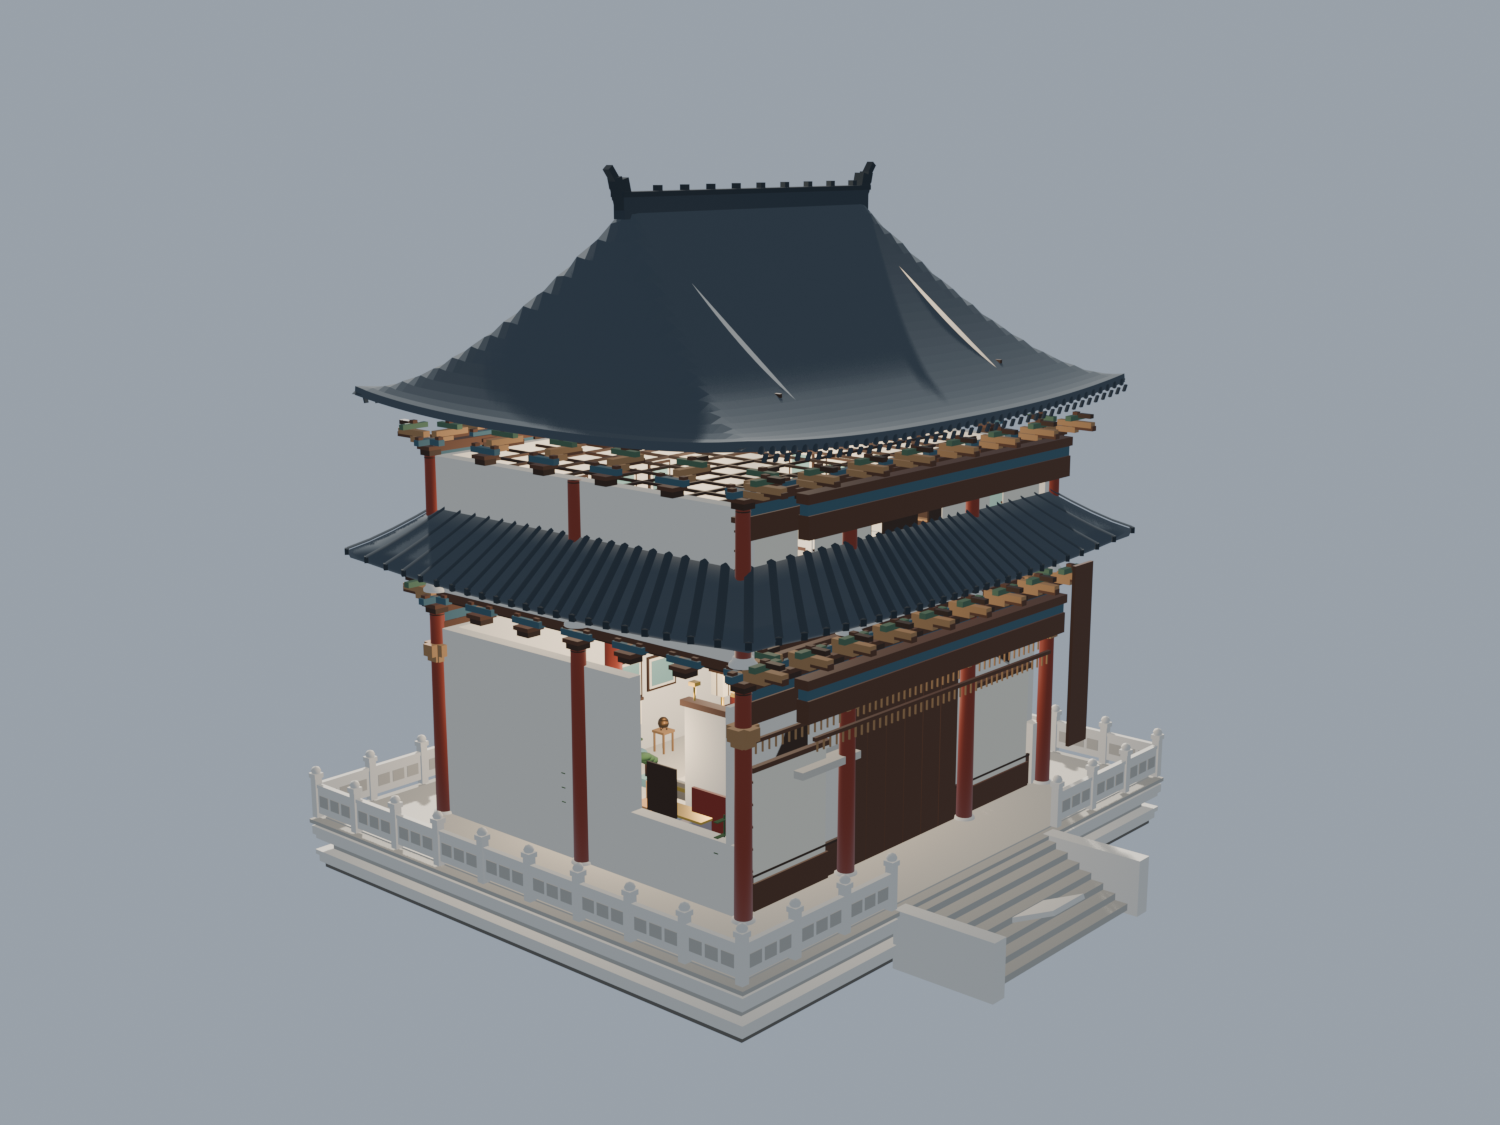
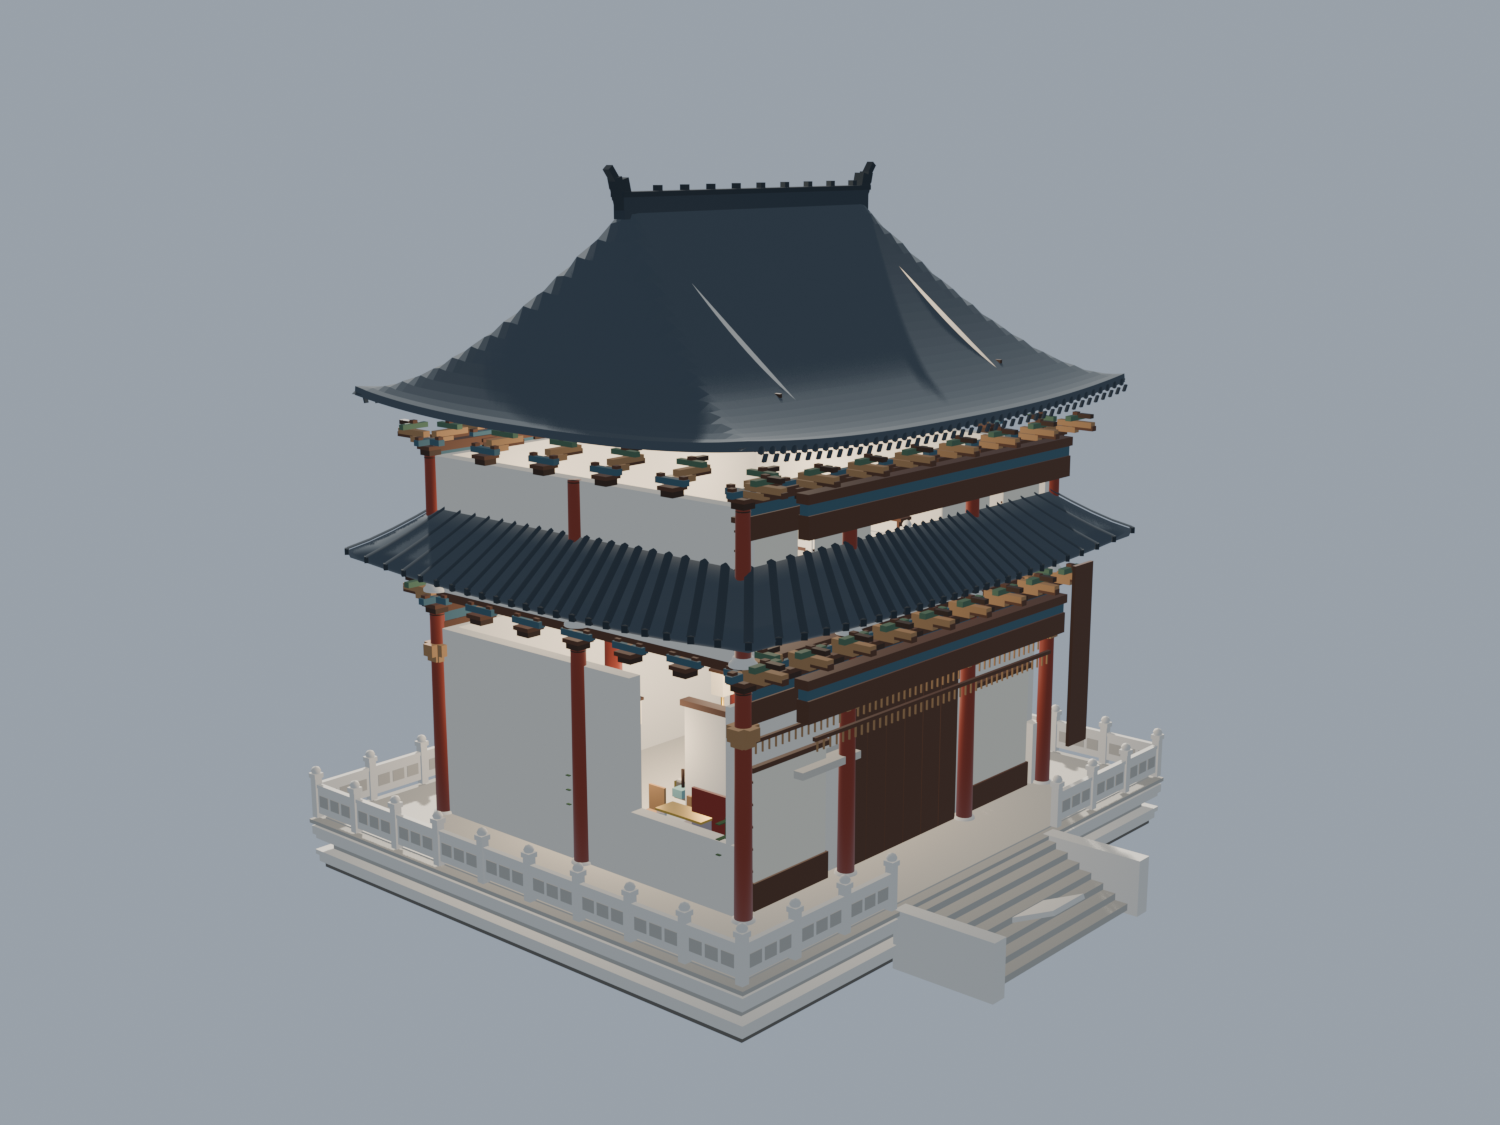
Revert "fix(gallery): close second-floor coffered ceiling and refresh Huazhang renders"
This reverts commit e8fcfc7b4974af07a2c56c53a348f73e15dfd8ea.

diff --git a/assets/gallery3d/scripts/v6/hall_dressing.py b/assets/gallery3d/scripts/v6/hall_dressing.py
@@ -235,9 +235,7 @@ def build_finish(col):
         grid_ceiling("COFFER_1F_L%d" % sx, FY2 - 0.30, xa, xb, -IN_Z + 0.05, IN_Z - 0.05)
     for sz, (za, zb) in enumerate(((-IN_Z + 0.05, -2.40), (2.40, IN_Z - 0.05))):
         grid_ceiling("COFFER_1F_F%d" % sz, FY2 - 0.30, -3.40, 3.40, za, zb)
-    # 二层：满铺（先加一层顶板，否则格眼里会直接看到瓦背）
-    K.box("COFFER_2F_Slab", (0.0, FY2 + COL_H2 - 0.04, 0.0), (IN_X * 2 - 0.1, 0.05, IN_Z * 2 - 0.1),
-          "M_wall_plaster", col)
+    # 二层：满铺
     grid_ceiling("COFFER_2F", FY2 + COL_H2 - 0.10, -IN_X + 0.05, IN_X - 0.05, -IN_Z + 0.05, IN_Z - 0.05)
 
     # ---- 地面拼花：中央大方砖 + 四周深色边线 ----
